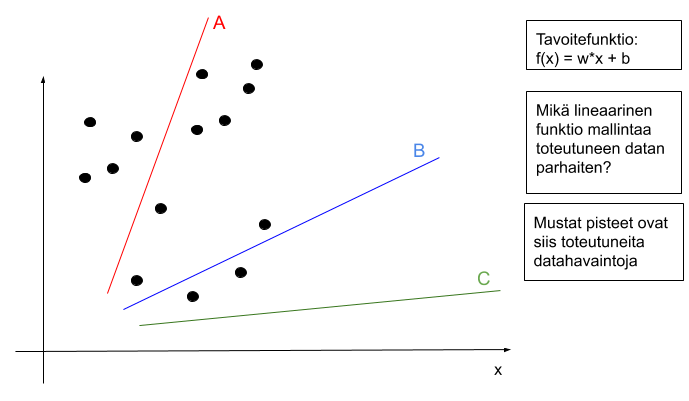
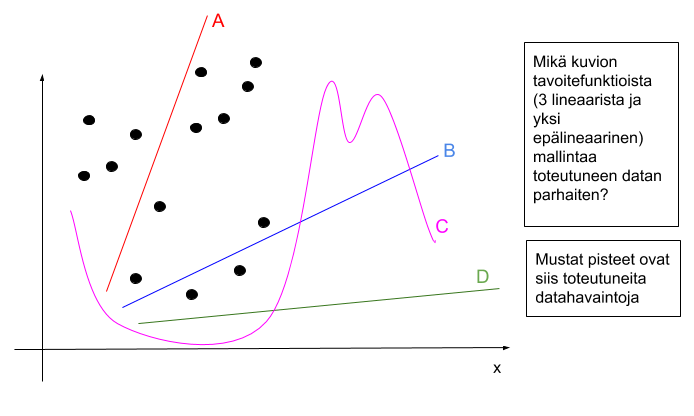
kayrat tehtävää muokattu

diff --git a/06_koneoppiminen/README.md b/06_koneoppiminen/README.md
@@ -115,11 +115,13 @@ Alta löytyy monivalintakysymyksiä yllä olevasta lukumateriaalista ja luennon 
 
 ![Lineaarinen ennustemalli](img/mika_kayra_oikein_tehtava.png)
 
-Liitteenä olevassa kuviossa on esitetty jostain datasta tehtyjä havaintoja (mustat pisteet). Mikä kuvioon piirretyistä lineearisista funktioista (ja niitä kuvaavista käyristä) mallintaa datan parhaiten? (keskivaikea)
+Liitteenä olevassa kuviossa on esitetty jostain datasta tehtyjä havaintoja (mustat pisteet). Mikä kuvioon piirretyistä funktioista (ja niitä kuvaavista käyristä) mallintaa datan parhaiten? (keskivaikea)
 
 * Funktio (käyrä) A
 * Funktio (käyrä) B
 * Funktio (käyrä) C
+* Funktio (käyrä) D
+
 
 7. 
 
